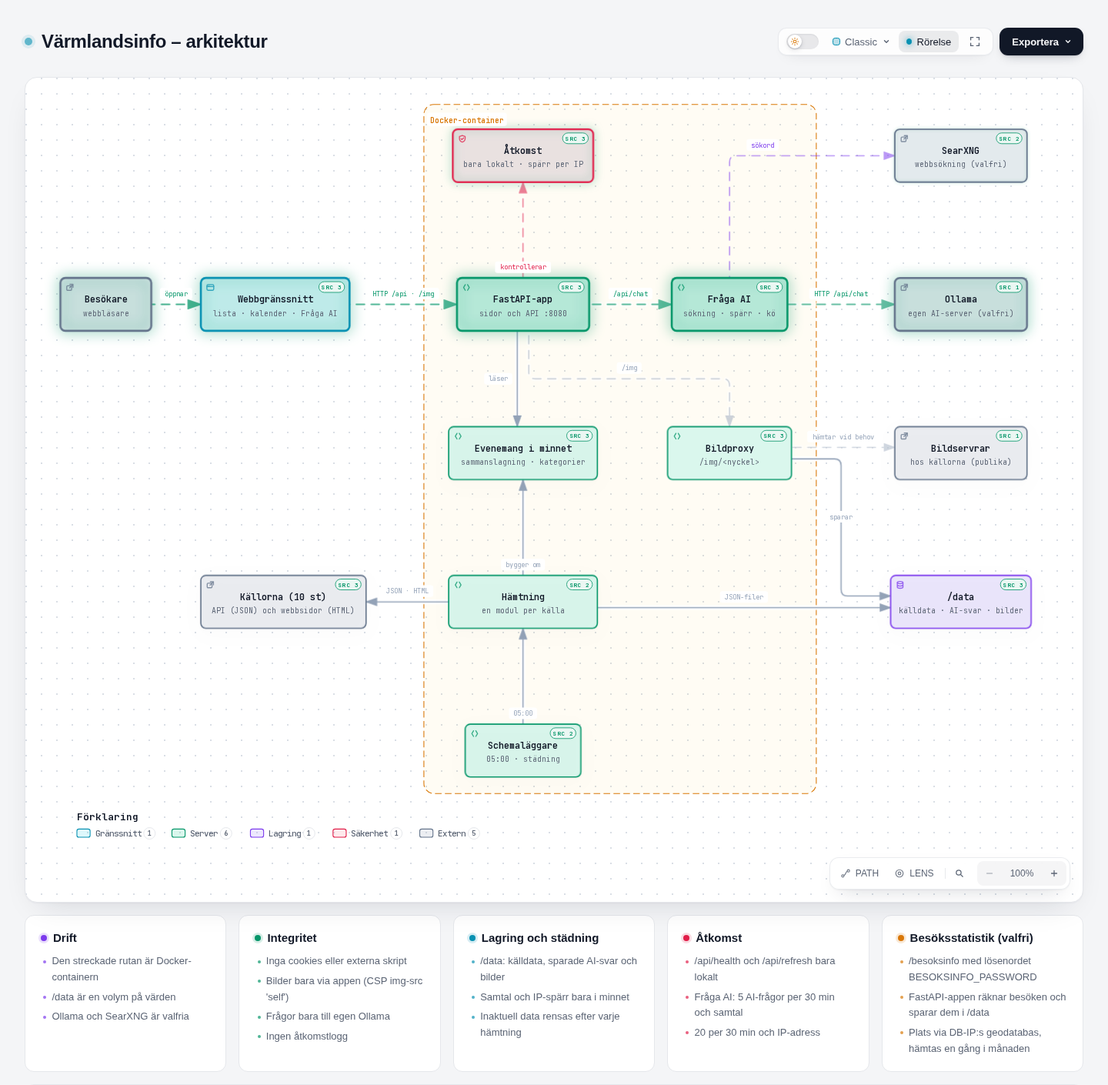
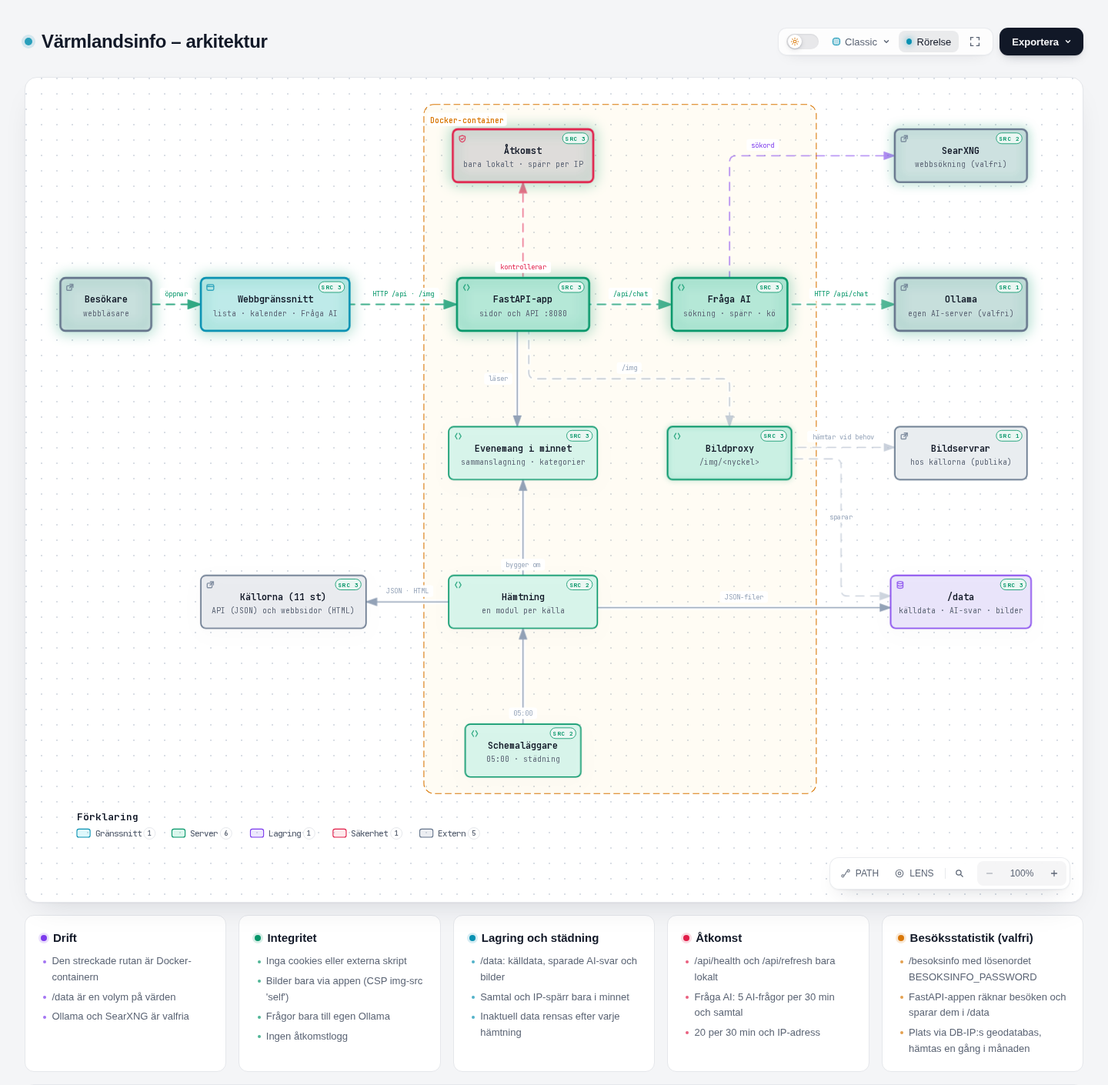
Arkitekturbilden: elva källor och hänvisningar till aktuella rader (#72)
Noden Källorna säger 11 st, och kodhänvisningarna pekar på raderna i
revisionen med bandykällan. Archify finalize: alla kontroller gröna.

Refs #72

Claude-Session: https://claude.ai/code/session_01TYkRkEgKrZWUa8JAcyV8v4

Changed region(s): [[0.7812, 0.0936, 0.9375, 0.1872], [0.5938, 0.3745, 0.7188, 0.4681]]

diff --git a/docs/arkitektur/varmlandsinfo.html b/docs/arkitektur/varmlandsinfo.html
@@ -4982,7 +4982,7 @@ OTHER DEALINGS IN THE FONT SOFTWARE.
       </div>
     </div>
 
-    <script id="archify-source-evidence-data" type="application/json">{"schemaVersion":1,"verified":true,"repository":{"url":"https://github.com/tubalainen/varmlandsinfo","revision":"be10092dc891c2fde6b1c885773741afb23bbccb","shortRevision":"be10092","label":"tubalainen/varmlandsinfo","href":"https://github.com/tubalainen/varmlandsinfo/tree/be10092dc891c2fde6b1c885773741afb23bbccb"},"referenceCount":32,"nodes":{"ui":[{"path":"app/static/app.js","line":59,"endLine":64,"label":"vyerna","href":"https://github.com/tubalainen/varmlandsinfo/blob/be10092dc891c2fde6b1c885773741afb23bbccb/app/static/app.js#L59-L64"},{"path":"app/static/app.js","line":167,"label":"hämtar /api/events","href":"https://github.com/tubalainen/varmlandsinfo/blob/be10092dc891c2fde6b1c885773741afb23bbccb/app/static/app.js#L167"},{"path":"app/static/chat.js","line":118,"label":"frågar /api/chat","href":"https://github.com/tubalainen/varmlandsinfo/blob/be10092dc891c2fde6b1c885773741afb23bbccb/app/static/chat.js#L118"}],"api":[{"path":"app/main.py","line":200,"endLine":219,"label":"/api/events och /img","href":"https://github.com/tubalainen/varmlandsinfo/blob/be10092dc891c2fde6b1c885773741afb23bbccb/app/main.py#L200-L219"},{"path":"app/main.py","line":258,"label":"/api/chat","href":"https://github.com/tubalainen/varmlandsinfo/blob/be10092dc891c2fde6b1c885773741afb23bbccb/app/main.py#L258"},{"path":"app/main.py","line":348,"endLine":352,"label":"sidan och CSP","href":"https://github.com/tubalainen/varmlandsinfo/blob/be10092dc891c2fde6b1c885773741afb23bbccb/app/main.py#L348-L352"}],"access":[{"path":"app/access.py","line":33,"endLine":56,"label":"lokalt och klientens IP","href":"https://github.com/tubalainen/varmlandsinfo/blob/be10092dc891c2fde6b1c885773741afb23bbccb/app/access.py#L33-L56"},{"path":"app/access.py","line":58,"label":"IpLimiter","href":"https://github.com/tubalainen/varmlandsinfo/blob/be10092dc891c2fde6b1c885773741afb23bbccb/app/access.py#L58"},{"path":"app/main.py","line":221,"endLine":227,"label":"health och refresh","href":"https://github.com/tubalainen/varmlandsinfo/blob/be10092dc891c2fde6b1c885773741afb23bbccb/app/main.py#L221-L227"}],"chat":[{"path":"app/chat.py","line":738,"label":"chat_stream","href":"https://github.com/tubalainen/varmlandsinfo/blob/be10092dc891c2fde6b1c885773741afb23bbccb/app/chat.py#L738"},{"path":"app/chat.py","line":823,"label":"kön till Ollama","href":"https://github.com/tubalainen/varmlandsinfo/blob/be10092dc891c2fde6b1c885773741afb23bbccb/app/chat.py#L823"},{"path":"app/main.py","line":290,"label":"anropas från API:t","href":"https://github.com/tubalainen/varmlandsinfo/blob/be10092dc891c2fde6b1c885773741afb23bbccb/app/main.py#L290"}],"ollama":[{"path":"app/chat.py","line":844,"label":"POST /api/chat","href":"https://github.com/tubalainen/varmlandsinfo/blob/be10092dc891c2fde6b1c885773741afb23bbccb/app/chat.py#L844"}],"searxng":[{"path":"app/chat.py","line":812,"label":"webbsökning","href":"https://github.com/tubalainen/varmlandsinfo/blob/be10092dc891c2fde6b1c885773741afb23bbccb/app/chat.py#L812"},{"path":"app/websearch.py","line":56,"endLine":63,"label":"GET /search","href":"https://github.com/tubalainen/varmlandsinfo/blob/be10092dc891c2fde6b1c885773741afb23bbccb/app/websearch.py#L56-L63"}],"images":[{"path":"app/images.py","line":71,"label":"ImageProxy","href":"https://github.com/tubalainen/varmlandsinfo/blob/be10092dc891c2fde6b1c885773741afb23bbccb/app/images.py#L71"},{"path":"app/images.py","line":135,"label":"get","href":"https://github.com/tubalainen/varmlandsinfo/blob/be10092dc891c2fde6b1c885773741afb23bbccb/app/images.py#L135"},{"path":"app/images.py","line":169,"label":"_download","href":"https://github.com/tubalainen/varmlandsinfo/blob/be10092dc891c2fde6b1c885773741afb23bbccb/app/images.py#L169"}],"imagehosts":[{"path":"app/images.py","line":169,"endLine":191,"label":"hämtning med kontroller","href":"https://github.com/tubalainen/varmlandsinfo/blob/be10092dc891c2fde6b1c885773741afb23bbccb/app/images.py#L169-L191"}],"merge":[{"path":"app/events.py","line":40,"endLine":60,"label":"rebuild","href":"https://github.com/tubalainen/varmlandsinfo/blob/be10092dc891c2fde6b1c885773741afb23bbccb/app/events.py#L40-L60"},{"path":"app/merge.py","line":79,"label":"merge","href":"https://github.com/tubalainen/varmlandsinfo/blob/be10092dc891c2fde6b1c885773741afb23bbccb/app/merge.py#L79"},{"path":"app/events.py","line":221,"label":"current_events","href":"https://github.com/tubalainen/varmlandsinfo/blob/be10092dc891c2fde6b1c885773741afb23bbccb/app/events.py#L221"}],"scheduler":[{"path":"app/main.py","line":124,"label":"scheduler","href":"https://github.com/tubalainen/varmlandsinfo/blob/be10092dc891c2fde6b1c885773741afb23bbccb/app/main.py#L124"},{"path":"app/main.py","line":95,"label":"cleanup","href":"https://github.com/tubalainen/varmlandsinfo/blob/be10092dc891c2fde6b1c885773741afb23bbccb/app/main.py#L95"}],"fetch":[{"path":"app/events.py","line":125,"endLine":145,"label":"_refresh","href":"https://github.com/tubalainen/varmlandsinfo/blob/be10092dc891c2fde6b1c885773741afb23bbccb/app/events.py#L125-L145"},{"path":"app/sources/__init__.py","line":14,"label":"källorna","href":"https://github.com/tubalainen/varmlandsinfo/blob/be10092dc891c2fde6b1c885773741afb23bbccb/app/sources/__init__.py#L14"}],"data":[{"path":"app/events.py","line":63,"endLine":74,"label":"källdata (JSON)","href":"https://github.com/tubalainen/varmlandsinfo/blob/be10092dc891c2fde6b1c885773741afb23bbccb/app/events.py#L63-L74"},{"path":"app/chat_cache.py","line":49,"endLine":55,"label":"sparade AI-svar","href":"https://github.com/tubalainen/varmlandsinfo/blob/be10092dc891c2fde6b1c885773741afb23bbccb/app/chat_cache.py#L49-L55"},{"path":"app/images.py","line":160,"label":"bilder","href":"https://github.com/tubalainen/varmlandsinfo/blob/be10092dc891c2fde6b1c885773741afb23bbccb/app/images.py#L160"}],"sources":[{"path":"app/sources/visitvarmland.py","line":50,"label":"Visit Värmland","href":"https://github.com/tubalainen/varmlandsinfo/blob/be10092dc891c2fde6b1c885773741afb23bbccb/app/sources/visitvarmland.py#L50"},{"path":"app/sources/motorsport.py","line":116,"endLine":136,"label":"SBF och Svemo","href":"https://github.com/tubalainen/varmlandsinfo/blob/be10092dc891c2fde6b1c885773741afb23bbccb/app/sources/motorsport.py#L116-L136"},{"path":"app/sources/__init__.py","line":14,"label":"alla källor","href":"https://github.com/tubalainen/varmlandsinfo/blob/be10092dc891c2fde6b1c885773741afb23bbccb/app/sources/__init__.py#L14"}]}}</script>
+    <script id="archify-source-evidence-data" type="application/json">{"schemaVersion":1,"verified":true,"repository":{"url":"https://github.com/tubalainen/varmlandsinfo","revision":"9274ca332d7392e29bf7d31fe782e2fad370a3e0","shortRevision":"9274ca3","label":"tubalainen/varmlandsinfo","href":"https://github.com/tubalainen/varmlandsinfo/tree/9274ca332d7392e29bf7d31fe782e2fad370a3e0"},"referenceCount":32,"nodes":{"ui":[{"path":"app/static/app.js","line":134,"endLine":139,"label":"vyerna","href":"https://github.com/tubalainen/varmlandsinfo/blob/9274ca332d7392e29bf7d31fe782e2fad370a3e0/app/static/app.js#L134-L139"},{"path":"app/static/app.js","line":244,"label":"hämtar /api/events","href":"https://github.com/tubalainen/varmlandsinfo/blob/9274ca332d7392e29bf7d31fe782e2fad370a3e0/app/static/app.js#L244"},{"path":"app/static/chat.js","line":118,"label":"frågar /api/chat","href":"https://github.com/tubalainen/varmlandsinfo/blob/9274ca332d7392e29bf7d31fe782e2fad370a3e0/app/static/chat.js#L118"}],"api":[{"path":"app/main.py","line":225,"endLine":244,"label":"/api/events och /img","href":"https://github.com/tubalainen/varmlandsinfo/blob/9274ca332d7392e29bf7d31fe782e2fad370a3e0/app/main.py#L225-L244"},{"path":"app/main.py","line":290,"label":"/api/chat","href":"https://github.com/tubalainen/varmlandsinfo/blob/9274ca332d7392e29bf7d31fe782e2fad370a3e0/app/main.py#L290"},{"path":"app/main.py","line":384,"endLine":391,"label":"sidan och CSP","href":"https://github.com/tubalainen/varmlandsinfo/blob/9274ca332d7392e29bf7d31fe782e2fad370a3e0/app/main.py#L384-L391"}],"access":[{"path":"app/access.py","line":33,"endLine":56,"label":"lokalt och klientens IP","href":"https://github.com/tubalainen/varmlandsinfo/blob/9274ca332d7392e29bf7d31fe782e2fad370a3e0/app/access.py#L33-L56"},{"path":"app/access.py","line":58,"label":"IpLimiter","href":"https://github.com/tubalainen/varmlandsinfo/blob/9274ca332d7392e29bf7d31fe782e2fad370a3e0/app/access.py#L58"},{"path":"app/main.py","line":246,"endLine":252,"label":"health och refresh","href":"https://github.com/tubalainen/varmlandsinfo/blob/9274ca332d7392e29bf7d31fe782e2fad370a3e0/app/main.py#L246-L252"}],"chat":[{"path":"app/chat.py","line":756,"label":"chat_stream","href":"https://github.com/tubalainen/varmlandsinfo/blob/9274ca332d7392e29bf7d31fe782e2fad370a3e0/app/chat.py#L756"},{"path":"app/chat.py","line":841,"label":"kön till Ollama","href":"https://github.com/tubalainen/varmlandsinfo/blob/9274ca332d7392e29bf7d31fe782e2fad370a3e0/app/chat.py#L841"},{"path":"app/main.py","line":322,"label":"anropas från API:t","href":"https://github.com/tubalainen/varmlandsinfo/blob/9274ca332d7392e29bf7d31fe782e2fad370a3e0/app/main.py#L322"}],"ollama":[{"path":"app/chat.py","line":862,"label":"POST /api/chat","href":"https://github.com/tubalainen/varmlandsinfo/blob/9274ca332d7392e29bf7d31fe782e2fad370a3e0/app/chat.py#L862"}],"searxng":[{"path":"app/chat.py","line":830,"label":"webbsökning","href":"https://github.com/tubalainen/varmlandsinfo/blob/9274ca332d7392e29bf7d31fe782e2fad370a3e0/app/chat.py#L830"},{"path":"app/websearch.py","line":56,"endLine":63,"label":"GET /search","href":"https://github.com/tubalainen/varmlandsinfo/blob/9274ca332d7392e29bf7d31fe782e2fad370a3e0/app/websearch.py#L56-L63"}],"images":[{"path":"app/images.py","line":71,"label":"ImageProxy","href":"https://github.com/tubalainen/varmlandsinfo/blob/9274ca332d7392e29bf7d31fe782e2fad370a3e0/app/images.py#L71"},{"path":"app/images.py","line":135,"label":"get","href":"https://github.com/tubalainen/varmlandsinfo/blob/9274ca332d7392e29bf7d31fe782e2fad370a3e0/app/images.py#L135"},{"path":"app/images.py","line":169,"label":"_download","href":"https://github.com/tubalainen/varmlandsinfo/blob/9274ca332d7392e29bf7d31fe782e2fad370a3e0/app/images.py#L169"}],"imagehosts":[{"path":"app/images.py","line":169,"endLine":191,"label":"hämtning med kontroller","href":"https://github.com/tubalainen/varmlandsinfo/blob/9274ca332d7392e29bf7d31fe782e2fad370a3e0/app/images.py#L169-L191"}],"merge":[{"path":"app/events.py","line":40,"endLine":60,"label":"rebuild","href":"https://github.com/tubalainen/varmlandsinfo/blob/9274ca332d7392e29bf7d31fe782e2fad370a3e0/app/events.py#L40-L60"},{"path":"app/merge.py","line":83,"label":"merge","href":"https://github.com/tubalainen/varmlandsinfo/blob/9274ca332d7392e29bf7d31fe782e2fad370a3e0/app/merge.py#L83"},{"path":"app/events.py","line":221,"label":"current_events","href":"https://github.com/tubalainen/varmlandsinfo/blob/9274ca332d7392e29bf7d31fe782e2fad370a3e0/app/events.py#L221"}],"scheduler":[{"path":"app/main.py","line":140,"label":"scheduler","href":"https://github.com/tubalainen/varmlandsinfo/blob/9274ca332d7392e29bf7d31fe782e2fad370a3e0/app/main.py#L140"},{"path":"app/main.py","line":101,"label":"cleanup","href":"https://github.com/tubalainen/varmlandsinfo/blob/9274ca332d7392e29bf7d31fe782e2fad370a3e0/app/main.py#L101"}],"fetch":[{"path":"app/events.py","line":125,"endLine":145,"label":"_refresh","href":"https://github.com/tubalainen/varmlandsinfo/blob/9274ca332d7392e29bf7d31fe782e2fad370a3e0/app/events.py#L125-L145"},{"path":"app/sources/__init__.py","line":15,"label":"källorna","href":"https://github.com/tubalainen/varmlandsinfo/blob/9274ca332d7392e29bf7d31fe782e2fad370a3e0/app/sources/__init__.py#L15"}],"data":[{"path":"app/events.py","line":63,"endLine":74,"label":"källdata (JSON)","href":"https://github.com/tubalainen/varmlandsinfo/blob/9274ca332d7392e29bf7d31fe782e2fad370a3e0/app/events.py#L63-L74"},{"path":"app/chat_cache.py","line":49,"endLine":55,"label":"sparade AI-svar","href":"https://github.com/tubalainen/varmlandsinfo/blob/9274ca332d7392e29bf7d31fe782e2fad370a3e0/app/chat_cache.py#L49-L55"},{"path":"app/images.py","line":160,"label":"bilder","href":"https://github.com/tubalainen/varmlandsinfo/blob/9274ca332d7392e29bf7d31fe782e2fad370a3e0/app/images.py#L160"}],"sources":[{"path":"app/sources/visitvarmland.py","line":50,"label":"Visit Värmland","href":"https://github.com/tubalainen/varmlandsinfo/blob/9274ca332d7392e29bf7d31fe782e2fad370a3e0/app/sources/visitvarmland.py#L50"},{"path":"app/sources/motorsport.py","line":116,"endLine":136,"label":"SBF och Svemo","href":"https://github.com/tubalainen/varmlandsinfo/blob/9274ca332d7392e29bf7d31fe782e2fad370a3e0/app/sources/motorsport.py#L116-L136"},{"path":"app/sources/__init__.py","line":15,"label":"alla källor","href":"https://github.com/tubalainen/varmlandsinfo/blob/9274ca332d7392e29bf7d31fe782e2fad370a3e0/app/sources/__init__.py#L15"}]}}</script>
     <script id="archify-i18n-data" type="application/json">{"locale":"sv","messages":{"viewer.kind.frontend":"Gränssnitt","viewer.kind.backend":"Server","viewer.kind.database":"Lagring","viewer.kind.cloud":"Moln","viewer.kind.security":"Säkerhet","viewer.kind.messagebus":"Meddelandekö","viewer.kind.external":"Extern","viewer.kind.neutral":"Neutral","viewer.kind.node":"Node","viewer.kind.start":"Start","viewer.kind.active":"Active","viewer.kind.waiting":"Waiting","viewer.kind.decision":"Decision","viewer.kind.success":"Success","viewer.kind.failure":"Failure","viewer.toolbar.actions":"Diagramåtgärder","viewer.theme.toggle.title":"Byt tema (T)","viewer.theme.toggle":"Byt färgtema","viewer.theme.dark":"Mörkt","viewer.theme.light":"Ljust","viewer.preset.choose.title":"Choose visual style (S cycles)","viewer.preset.choose":"Choose visual style","viewer.preset.style":"Style","viewer.preset.menu":"Visual style","viewer.preset.identity":"Visual identity","viewer.preset.cycles":"to cycle","viewer.preset.classic":"Classic","viewer.preset.classic.short":"Classic","viewer.preset.classic.hint":"Stable technical default","viewer.preset.flow":"Signal Flow","viewer.preset.flow.short":"Flow","viewer.preset.flow.hint":"Motion-forward presentation","viewer.preset.blueprint":"Blueprint","viewer.preset.blueprint.hint":"Engineering review","viewer.preset.editorial":"Editorial","viewer.preset.editorial.hint":"Publication and launch notes","viewer.preset.badge.signalFlow":"SIGNAL FLOW","viewer.preset.badge.blueprint":"BLUEPRINT / REV 01","viewer.preset.badge.editorial":"EDITORIAL / FIELD NOTE","viewer.preset.badge.editorialPlate":"ARCHIFY / PLATE 04","viewer.preset.current":"Visual style: {style}. Choose visual style","viewer.motion.live":"Rörelse","viewer.motion.still":"Stilla","viewer.motion.pause":"Pausa rörelsen","viewer.motion.resume":"Starta rörelsen","viewer.motion.reduced":"Rörelsen är pausad eftersom minskad rörelse är vald","viewer.motion.hidden":"Rörelsen är pausad medan sidan är dold","viewer.motion.yielding":"Pause motion; currently yielding to {owner}","viewer.motion.yielding.title":"Live preview enabled · yielding to {owner}","viewer.owner.route":"Route Probe","viewer.owner.lens":"Semantic Lens","viewer.owner.relationship":"Relationship Preview","viewer.owner.intent":"Intent Trace","viewer.owner.focus":"semantic focus","viewer.owner.legend":"legend preview","viewer.owner.reader":"reader interaction","viewer.present.enter":"Visa i presentationsläge","viewer.present.enter.title":"Presentationsläge (F)","viewer.present.exit":"Lämna presentationsläget","viewer.present.exit.title":"Lämna presentationsläget (F eller Escape)","viewer.present.present":"Presentera","viewer.present.exit.label":"Lämna","viewer.export.button":"Exportera","viewer.export.button.title":"Exportera diagrammet (E)","viewer.export.diagram":"Exportera diagrammet","viewer.export.menu":"Exportera","viewer.export.subtitle":"Portable, clean outputs","viewer.export.share":"Share","viewer.export.shareCard":"Share Card","viewer.export.routeShareCard":"Route Share Card","viewer.export.reachShareCard":"Reach Share Card","viewer.export.copyDiagram":"Copy diagram","viewer.export.clipboardPng":"PNG to clipboard","viewer.export.raster":"Raster images","viewer.export.image":"Image","viewer.export.lossless":"Lossless image","viewer.export.compact":"Compact image","viewer.export.modern":"Modern image","viewer.export.vectorMotion":"Vector and motion","viewer.export.vectorMotion.heading":"Vector \u0026 motion","viewer.export.editable":"Editable vector","viewer.export.svg.auto":"SVG · Auto","viewer.export.svg.auto.hint":"Matches host theme","viewer.export.svg.light":"SVG · Light","viewer.export.svg.light.hint":"Always light","viewer.export.svg.dark":"SVG · Dark","viewer.export.svg.dark.hint":"Always dark","viewer.export.motion6s":"6s motion","viewer.export.unsupported":"Not supported by this browser","viewer.export.clipboardUnsupported":"Clipboard image write not supported by this browser","viewer.export.clipboardUnsupported.short":"Clipboard image write not supported in this browser.","viewer.export.motionUnavailable":"Motion capture unavailable in this browser","viewer.export.webmUnavailable":"WebM unavailable in this browser","viewer.export.failed":"Export failed: {message}","viewer.export.unknownVariant":"Unknown Share Card variant: {variant}","viewer.export.routeRequired":"Trace a route before exporting a Route Share Card","viewer.export.reachRequired":"Trace authored reach before exporting a Reach Share Card","viewer.export.unknown":"unknown","viewer.export.routeFailed":"Route Share Card export failed: {message}","viewer.export.reachFailed":"Reach Share Card export failed: {message}","viewer.export.copyFailed":"Copy failed: {message}","viewer.export.copiedPng":"Copied PNG to clipboard","viewer.export.downloadedRoute":"Downloaded Route Share Card","viewer.export.downloadedReach":"Downloaded Reach Share Card","viewer.export.downloadedWebm":"Downloaded WebM","viewer.export.recording":"Recording 6 seconds of motion…","viewer.export.card.routeSummary.one":"Path: {source} → {target} · {count} step","viewer.export.card.routeSummary.other":"Path: {source} → {target} · {count} steps","viewer.export.card.reachSummary":"Authored {direction} from {origin} · {nodes} · {links} · max {hops}","viewer.export.card.node.one":"{count} node","viewer.export.card.node.other":"{count} nodes","viewer.export.card.link.one":"{count} link","viewer.export.card.link.other":"{count} links","viewer.export.card.hop.one":"{count} hop","viewer.export.card.hop.other":"{count} hops","viewer.export.card.routeBadge":"ARCHIFY · ROUTE · {hops}","viewer.export.card.reachBadge":"ARCHIFY · {direction} REACH","viewer.export.direction.upstream":"Upstream","viewer.export.direction.downstream":"Downstream","viewer.export.error.canvasUnavailable":"Canvas unavailable for {label}","viewer.export.error.contextUnavailable":"2D canvas context unavailable for {label}","viewer.export.error.toBlobUnavailable":"canvas.toBlob unavailable for {label}","viewer.export.error.toBlobNull":"canvas.toBlob returned no data for {label}","viewer.export.error.variantsCombined":"Share Card variants cannot be combined","viewer.export.error.viewerState":"Share Card export could not remove temporary viewer state","viewer.export.error.routeState":"Route Card export could not preserve the resolved route safely","viewer.export.error.reachState":"Reach Card export could not preserve authored reach safely","viewer.export.error.webmRequirements":"WebM motion export requires a trace animation and browser MediaRecorder support","viewer.export.error.mediaRecorder":"MediaRecorder failed","viewer.export.error.emptyWebm":"MediaRecorder produced an empty WebM","viewer.export.error.webmBackground":"SVG background could not be loaded for WebM export","viewer.guide.title":"Explore this system","viewer.focus.selectedNodes":"{count} selected nodes","viewer.guide.eyebrow":"Diagram guide","viewer.guide.close":"Close diagram guide","viewer.guide.inspecting":"Inspecting compiled semantics","viewer.guide.actions":"Diagram exploration actions","viewer.guide.find":"Find any node","viewer.guide.find.hint":"Search labels, responsibilities, kinds, and stable IDs.","viewer.guide.route":"Trace a route","viewer.guide.route.aria":"Trace a directed route","viewer.guide.route.hint":"Ask how two semantic nodes connect in authored direction.","viewer.guide.map":"See the whole system","viewer.guide.map.hint":"Open Semantic Radar with a live viewport and stable nodes.","viewer.guide.lens":"Compare semantic kinds","viewer.guide.lens.hint":"Count roles, reveal their traffic, and compare direct authored links.","viewer.guide.present":"Enter Presentation Stage","viewer.guide.present.hint":"Give the live diagram the viewport without changing export.","viewer.guide.shortcuts":"Additional keyboard shortcuts","viewer.guide.shortcut.export":"Export","viewer.guide.shortcut.theme":"Theme","viewer.guide.shortcut.style":"Style","viewer.guide.shortcut.reset":"Reset","viewer.guide.shortcut.zoomIn":"Zoom in","viewer.guide.shortcut.zoomOut":"Zoom out","viewer.guide.shortcut.close":"Close","viewer.guide.facts":"{nodes} · {relationships}","viewer.guide.fact.node.one":"{count} semantic node","viewer.guide.fact.node.other":"{count} semantic nodes","viewer.guide.fact.relationship.one":"{count} relationship","viewer.guide.fact.relationship.other":"{count} relationships","viewer.guide.open":"Open diagram guide","viewer.finder.title":"Find a node","viewer.finder.close":"Close node finder","viewer.finder.placeholder":"Search labels or IDs","viewer.finder.search":"Search diagram nodes","viewer.finder.results":"Diagram nodes","viewer.finder.empty":"No matching nodes","viewer.finder.result.focus":"Focus {label}","viewer.finder.result.routeStart":"Choose {label} as route start","viewer.finder.result.routeTarget":"Choose {label} as route destination, {links}","viewer.finder.status.empty":"No matching nodes","viewer.finder.status.count.one":"{count} matching node","viewer.finder.status.count.other":"{count} matching nodes","viewer.finder.noun.nodes":"nodes","viewer.finder.link.one":"{count} link","viewer.finder.link.other":"{count} links","viewer.finder.result.focus.one":"Focus {label}, {count} related connection","viewer.finder.result.focus.other":"Focus {label}, {count} related connections","viewer.finder.status.filtered":"{visible} of {available} {noun}","viewer.finder.status.all":"{available} {noun}","viewer.passport.eyebrow":"Semantic passport","viewer.passport.metadata":"Node metadata","viewer.passport.evidence":"Verified source evidence","viewer.passport.verified":"Verified source","viewer.passport.verificationScope":"Verified against local Git at the pinned revision. Remote access has not been checked.","viewer.passport.reach":"Authored reach","viewer.passport.reach.trace":"Trace authored reachability","viewer.passport.upstream":"Upstream","viewer.passport.downstream":"Downstream","viewer.passport.upstream.trace":"Trace upstream authored reachability","viewer.passport.downstream.trace":"Trace downstream authored reachability","viewer.passport.close":"Close semantic passport","viewer.passport.move":"Move semantic passport. Drag, use arrow keys, or press Home to reset.","viewer.passport.copy":"Copy link","viewer.passport.copy.focus":"Copy link to focused node","viewer.passport.relations":"Relations","viewer.passport.relations.show":"Show connected relationships","viewer.passport.relations.hide":"Hide connected relationships","viewer.passport.relations.list":"Connected relationships","viewer.passport.copyRelation":"Copy relation","viewer.passport.copyNode":"Copy node","viewer.passport.copyPinned":"Copy link to pinned relationship","viewer.passport.copySource":"Copy link to source node","viewer.passport.copy.focused.success":"Focused node link copied","viewer.passport.copy.pinned.success":"Pinned relationship link copied","viewer.passport.copy.focused.failed":"Could not copy focused node link","viewer.passport.copy.pinned.failed":"Could not copy pinned relationship link","viewer.passport.relationship.none":"No connected relationships","viewer.passport.relationship.count.one":"{count} relation","viewer.passport.relationship.count.other":"{count} relations","viewer.passport.relationship.show.one":"Show {count} connected relationship","viewer.passport.relationship.show.other":"Show {count} connected relationships","viewer.passport.relationship.summary":"{out} outgoing · {in} incoming{loops}","viewer.passport.relationship.loops":" · {count} loop","viewer.passport.relationship.explorer":"Direct relationship explorer","viewer.passport.relationship.help":"Use arrow keys to explore relationships. Press Enter or Space to pin details; Escape clears.","viewer.passport.relationship.loopsBack":"loops back","viewer.passport.relationship.connectsTo":"connects to","viewer.passport.relationship.connectsFrom":"connects from","viewer.passport.relationship.pinned":"Pinned relationship · {from} → {to} · {label}","viewer.passport.relationship.inspect":"Inspect relationship {index} of {total}: {from} to {to}, {label}. Press Enter for details.","viewer.passport.relationship.group.out":"Outgoing","viewer.passport.relationship.group.in":"Incoming","viewer.passport.relationship.group.loop":"Self loops","viewer.passport.relationship.row":"{group}: {relationship}, {neighbor}","viewer.passport.relationship.direction.out":"OUT →","viewer.passport.relationship.direction.in":"← IN","viewer.passport.relationship.direction.loop":"LOOP","viewer.passport.sourceCount.one":"{count} verified source reference","viewer.passport.sourceCount.other":"{count} verified source references","viewer.passport.sourceMarker":"SRC","viewer.passport.beacon.one":"{count} verified source; focus this node to inspect","viewer.passport.beacon.other":"{count} verified sources; focus this node to inspect","viewer.passport.repository.open":"Open verified repository revision {revision}","viewer.passport.source.open":"Open verified source {path} at revision {revision}","viewer.passport.source.openLink":"Open ↗","viewer.passport.reach.upstream.one":"Trace {count} upstream authored node","viewer.passport.reach.upstream.other":"Trace {count} upstream authored nodes","viewer.passport.reach.downstream.one":"Trace {count} downstream authored node","viewer.passport.reach.downstream.other":"Trace {count} downstream authored nodes","viewer.passport.reach.noUpstream":"No upstream authored nodes","viewer.passport.reach.noDownstream":"No downstream authored nodes","viewer.passport.reach.status":"{direction} · {nodes} nodes · {links} links · max {hops} hops","viewer.route.eyebrow":"Path","viewer.route.start":"Click where the path starts","viewer.route.start.find":"Find start","viewer.route.start.find.aria":"Find a route start","viewer.route.copy":"Copy link","viewer.route.copy.aria":"Copy link to traced route","viewer.route.clear":"Clear","viewer.route.clear.aria":"Clear route probe","viewer.route.traced":"Path","viewer.route.pickTwo":"Click two nodes on the diagram","viewer.route.pickOne":"Click a node on the diagram","viewer.route.controls":"Route journey controls","viewer.route.previous":"Previous route position","viewer.route.play":"Play route journey","viewer.route.pause":"Pause route journey","viewer.route.replay":"Replay route journey","viewer.route.next":"Next route position","viewer.route.journey":"Journey","viewer.route.pause.label":"Pause","viewer.route.replay.label":"Replay","viewer.route.overview":"Overview","viewer.route.overview.aria":"Show complete route overview","viewer.route.instructions":"Click a start, then an end. Paths follow the arrows.","viewer.route.destination":"Where does the path from {label} end?","viewer.route.destination.find":"Find target","viewer.route.destination.find.aria":"Find a reachable route destination","viewer.route.differentDestination":"Choose a different destination","viewer.route.distinct":"Pick two different nodes.","viewer.route.unreachable":"Cannot reach {label} from here","viewer.route.unreachable.detail":"{target} cannot be reached from {source} along the arrows. Pick a highlighted node.","viewer.route.start.instructions":"Next, pick the end. Only nodes you can reach will light up.","viewer.route.copy.success":"Traced route link copied","viewer.route.copy.failed":"Could not copy traced route link","viewer.route.position":"Route position {index} of {total}: {label}","viewer.route.step":"Step {index} of {total} · {phase} · {label}","viewer.route.motionRequired":"Automatic journey requires Live motion","viewer.route.trigger.clear":"Clear traced route","viewer.route.overview.status":"{nodes} · {hops} · shortest path","viewer.route.overview.node.one":"{count} node","viewer.route.overview.node.other":"{count} nodes","viewer.route.overview.hop.one":"{count} step","viewer.route.overview.hop.other":"{count} steps","viewer.route.phase.playing":"Playing","viewer.route.phase.complete":"Complete","viewer.route.phase.inspecting":"Inspecting","viewer.route.destination.count.one":"{count} reachable node is highlighted. Click it.","viewer.route.destination.count.other":"{count} reachable nodes are highlighted. Click one.","viewer.route.noOutgoing":"No arrows lead out of this node. Clear it and pick another start.","viewer.route.result.title":"{source} to {target}","viewer.route.finder.source.title":"Choose route start","viewer.route.finder.source.placeholder":"Search route sources","viewer.route.finder.source.empty":"No matching route sources","viewer.route.finder.source.results":"Nodes that can start a route","viewer.route.finder.source.noun":"route sources","viewer.route.finder.source.badge":"start","viewer.route.finder.target.title":"Destination from {label}","viewer.route.finder.target.placeholder":"Search reachable destinations","viewer.route.finder.target.empty":"No matching reachable destinations","viewer.route.finder.target.results":"Reachable route destinations","viewer.route.finder.target.noun":"reachable destinations","viewer.route.hop.one":"{count} hop","viewer.route.hop.other":"{count} hops","viewer.lens.eyebrow":"Semantic lens","viewer.lens.title":"Compare system roles","viewer.lens.close":"Close semantic lens","viewer.lens.instruction":"Choose up to two semantic kinds. One reveals its real traffic; two compare only direct authored relationships.","viewer.lens.kinds":"Semantic kinds","viewer.lens.choose":"Choose a kind to inspect its nodes and touching relationships.","viewer.lens.copy":"Copy link to semantic lens","viewer.lens.clear":"Clear semantic lens","viewer.lens.open":"Open semantic lens","viewer.lens.openActive":"Open active semantic lens","viewer.lens.legend":"Semantic legend","viewer.lens.legend.inspect.one":"Inspect {label}, {count} node","viewer.lens.legend.inspect.other":"Inspect {label}, {count} nodes","viewer.lens.kind.count.one":"{label}, {count} node","viewer.lens.kind.count.other":"{label}, {count} nodes","viewer.lens.compare.one":"{first} → {second}: {forward} · {second} → {first}: {reverse} · {count} direct relationship","viewer.lens.compare.other":"{first} → {second}: {forward} · {second} → {first}: {reverse} · {count} direct relationships","viewer.lens.single":"{nodes} · {relationships} · connected peers remain visible","viewer.lens.node.one":"{count} {label} node","viewer.lens.node.other":"{count} {label} nodes","viewer.lens.relationship.one":"{count} touching relationship","viewer.lens.relationship.other":"{count} touching relationships","viewer.radar.title":"Semantic radar","viewer.radar.building":"Building overview","viewer.radar.openFull":"Open full semantic radar","viewer.radar.open":"Open radar","viewer.radar.close":"Close semantic radar","viewer.radar.surface":"Diagram overview. Click a node to focus it, or use arrow keys to pan.","viewer.radar.click":"Click node","viewer.radar.drag":"Drag to pan","viewer.radar.space":"Semantic radar needs more MAP space.","viewer.radar.nodes":"Semantic diagram radar nodes","viewer.radar.focus":"Focus {label} from Semantic Radar","viewer.radar.status":"{count} nodes · {viewport}","viewer.radar.fullMap":"{count} nodes · full map","viewer.radar.compacted":"Radar compacted to avoid covering the Semantic Passport or MAP controls.","viewer.radar.cancelWaiting":"Cancel semantic radar waiting for more MAP space","viewer.radar.needsSpace":"Semantic radar needs more visible MAP space","viewer.radar.viewport.full":"full map","viewer.radar.viewport.width":"{percent}% width","viewer.radar.viewport.scale":"{percent}% viewport","viewer.nav.controls":"Diagram view controls","viewer.nav.route":"Trace a directed route","viewer.nav.route.title":"Trace route (R)","viewer.nav.route.short":"PATH","viewer.nav.radar":"Open semantic radar","viewer.nav.radar.title":"Semantic radar (M)","viewer.nav.radar.short":"MAP","viewer.nav.lens":"Open semantic lens","viewer.nav.lens.title":"Semantic lens (L)","viewer.nav.lens.short":"LENS","viewer.nav.find":"Find a node","viewer.nav.find.title":"Find a node (/)","viewer.outline.title":"Node index","viewer.rail.show":"Notes \u0026 index","viewer.rail.controls":"Side panel","viewer.rail.collapse":"Collapse side panel","viewer.rail.bottom":"Move panel below the diagram","viewer.rail.right":"Move panel beside the diagram","viewer.nav.guide":"Open diagram guide","viewer.nav.guide.title":"Diagram guide (?)","viewer.nav.zoomOut":"Zoom out","viewer.nav.zoomOut.title":"Zoom out (-)","viewer.nav.reset":"Reset diagram view","viewer.nav.reset.title":"Reset view (0)","viewer.nav.read":"READ","viewer.nav.zoomIn":"Zoom in","viewer.nav.zoomIn.title":"Zoom in (+)","viewer.nav.camera":"{hint}. Reset diagram view","viewer.nav.camera.title":"{semantic}{hint} · reset view (0)","viewer.nav.camera.semantic":"Semantic camera active · ","viewer.nav.level.map":"MAP","viewer.nav.level.read":"READ","viewer.nav.level.full":"FULL","viewer.nav.level.auto":"AUTO","viewer.nav.detail.map":"Zoom in to reveal relationship labels and node context","viewer.nav.detail.read":"Zoom in again to reveal tags and annotations","viewer.nav.detail.full":"Full diagram detail","viewer.intent.summary":"{label}. {out} outgoing, {in} incoming{loops}. {total} connections. Press Enter for details.","viewer.intent.loops":", {count} self loop","viewer.common.copied":"Copied","viewer.common.copyFailed":"Copy failed","viewer.common.copyLink":"Copy link","viewer.common.clear":"Clear","viewer.common.close":"Close"}}</script>
     <!-- Main Diagram -->
     <div class="diagram-container" data-detail-level="read"
@@ -5223,15 +5223,15 @@ OTHER DEALINGS IN THE FONT SOFTWARE.
         <text data-detail="context" x="1110" y="626" class="t-muted" font-size="9" text-anchor="middle">källdata · AI-svar · bilder</text>
         </g>
 
-        <g id="node-sources" data-node-id="sources" data-node-label="Källorna (10 st)" tabindex="0" role="button" aria-label="Fokusera Källorna (10 st), API (JSON) och webbsidor (HTML), Komponent" aria-pressed="false" data-node-kind="external" data-node-sublabel="API (JSON) och webbsidor (HTML)" data-node-context="Komponent">
-          <title>Källorna (10 st) · API (JSON) och webbsidor (HTML) · Komponent</title>
+        <g id="node-sources" data-node-id="sources" data-node-label="Källorna (11 st)" tabindex="0" role="button" aria-label="Fokusera Källorna (11 st), API (JSON) och webbsidor (HTML), Komponent" aria-pressed="false" data-node-kind="external" data-node-sublabel="API (JSON) och webbsidor (HTML)" data-node-context="Komponent">
+          <title>Källorna (11 st) · API (JSON) och webbsidor (HTML) · Komponent</title>
           <rect x="190" y="580" width="200" height="64" rx="6" class="c-mask"/>
           <rect x="190" y="580" width="200" height="64" rx="6" class="c-external" data-animate="node" style="--step:12" stroke-width="1.5"/>
           <g aria-hidden="true" data-semantic-sigil="external" class="semantic-sigil s-external" transform="translate(196 586) scale(0.6875)">
             <rect x="2.5" y="5" width="8.5" height="8" rx="1.5"/>
             <path d="M8 2.5h5.5V8M13.5 2.5 7.5 8.5"/>
           </g>
-          <text data-node-label="" data-detail-anchor="" x="290" y="610" class="t-primary" font-size="11" font-weight="600" text-anchor="middle">Källorna (10 st)</text>
+          <text data-node-label="" data-detail-anchor="" x="290" y="610" class="t-primary" font-size="11" font-weight="600" text-anchor="middle">Källorna (11 st)</text>
         <text data-detail="context" x="290" y="626" class="t-muted" font-size="9" text-anchor="middle">API (JSON) och webbsidor (HTML)</text>
         </g>
 
